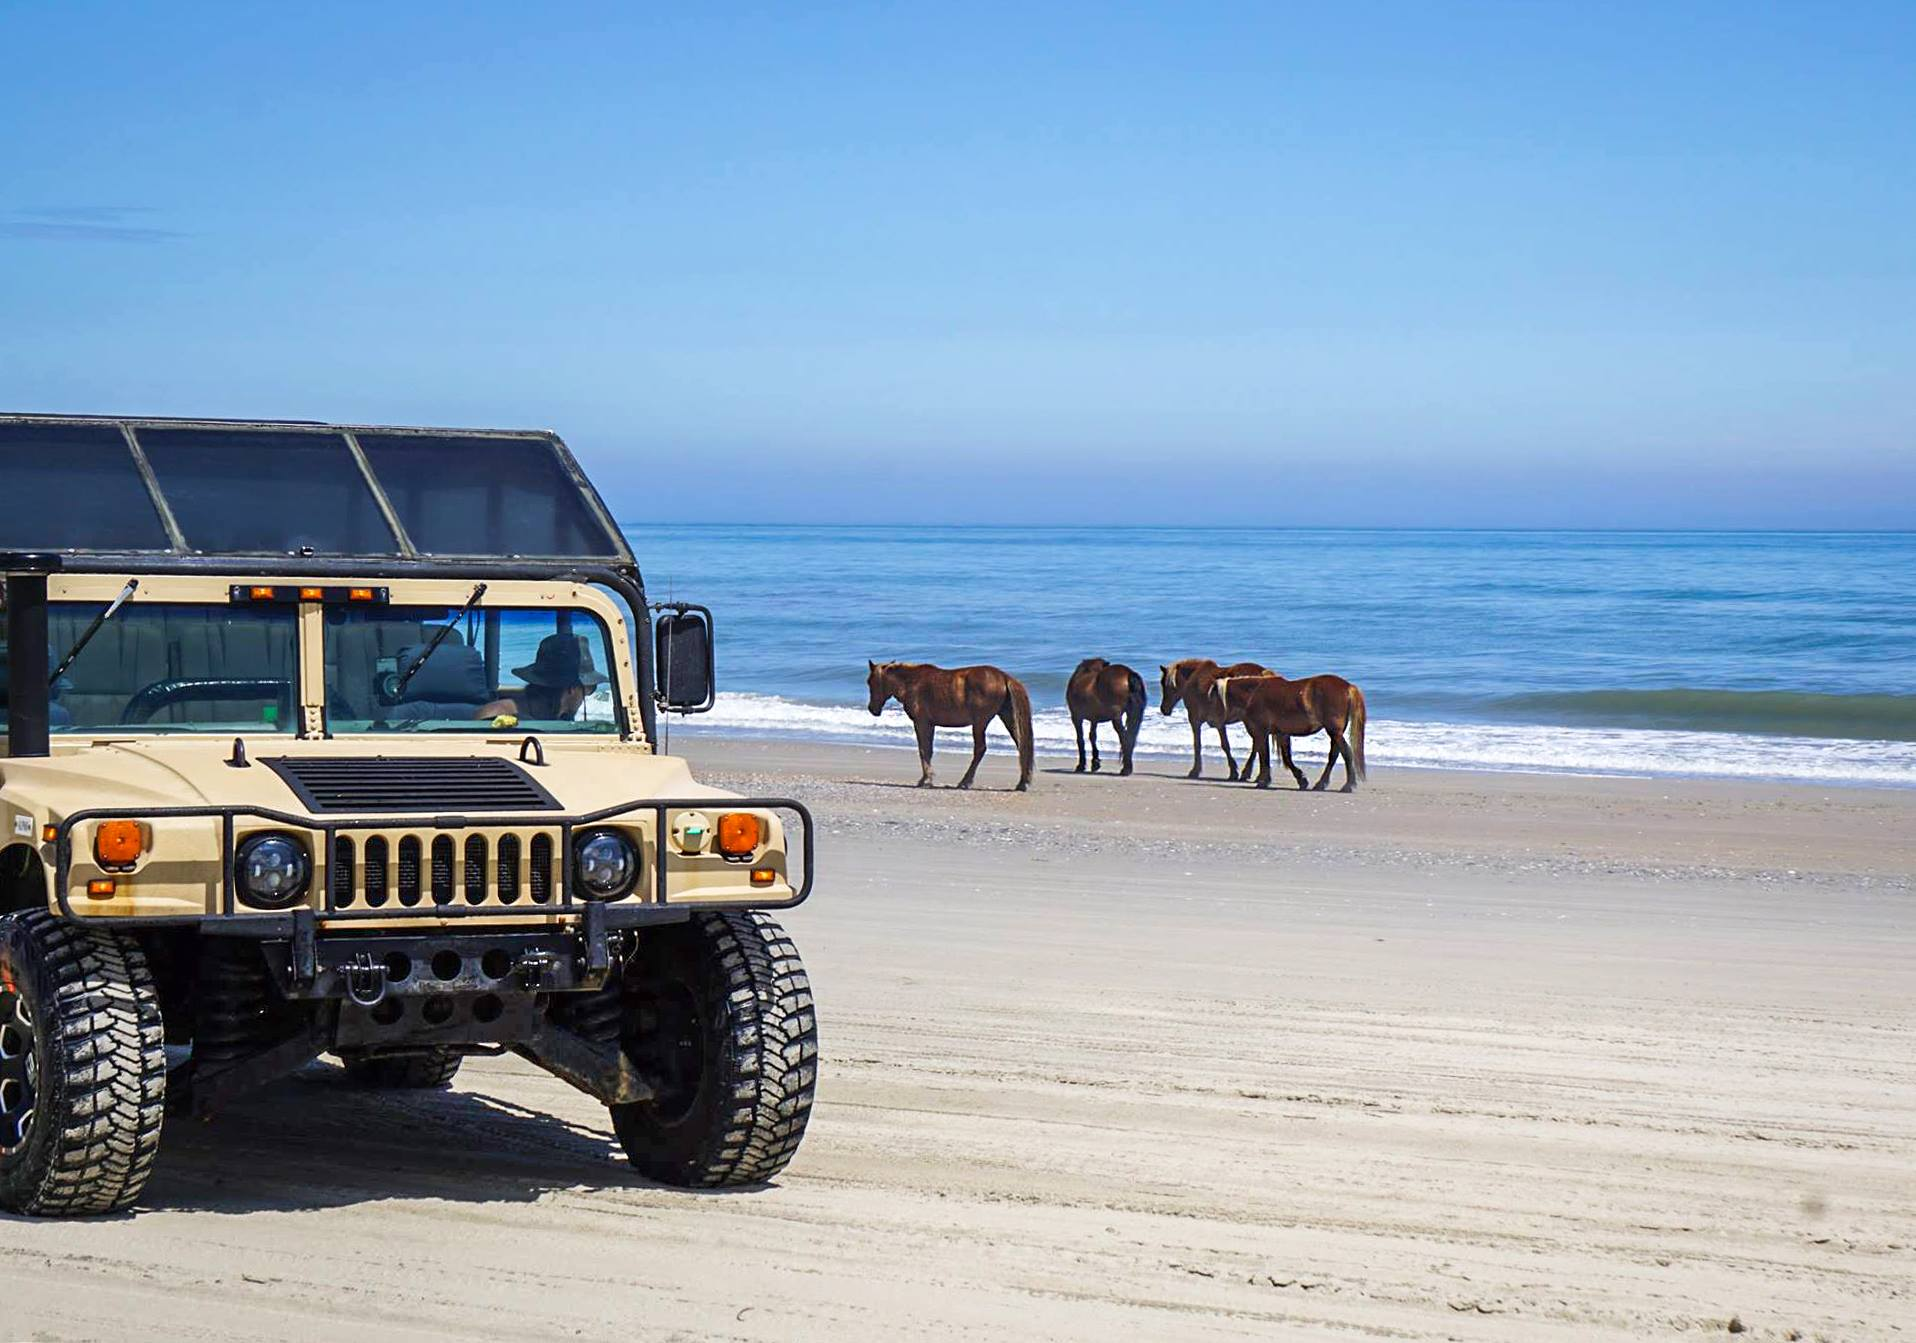
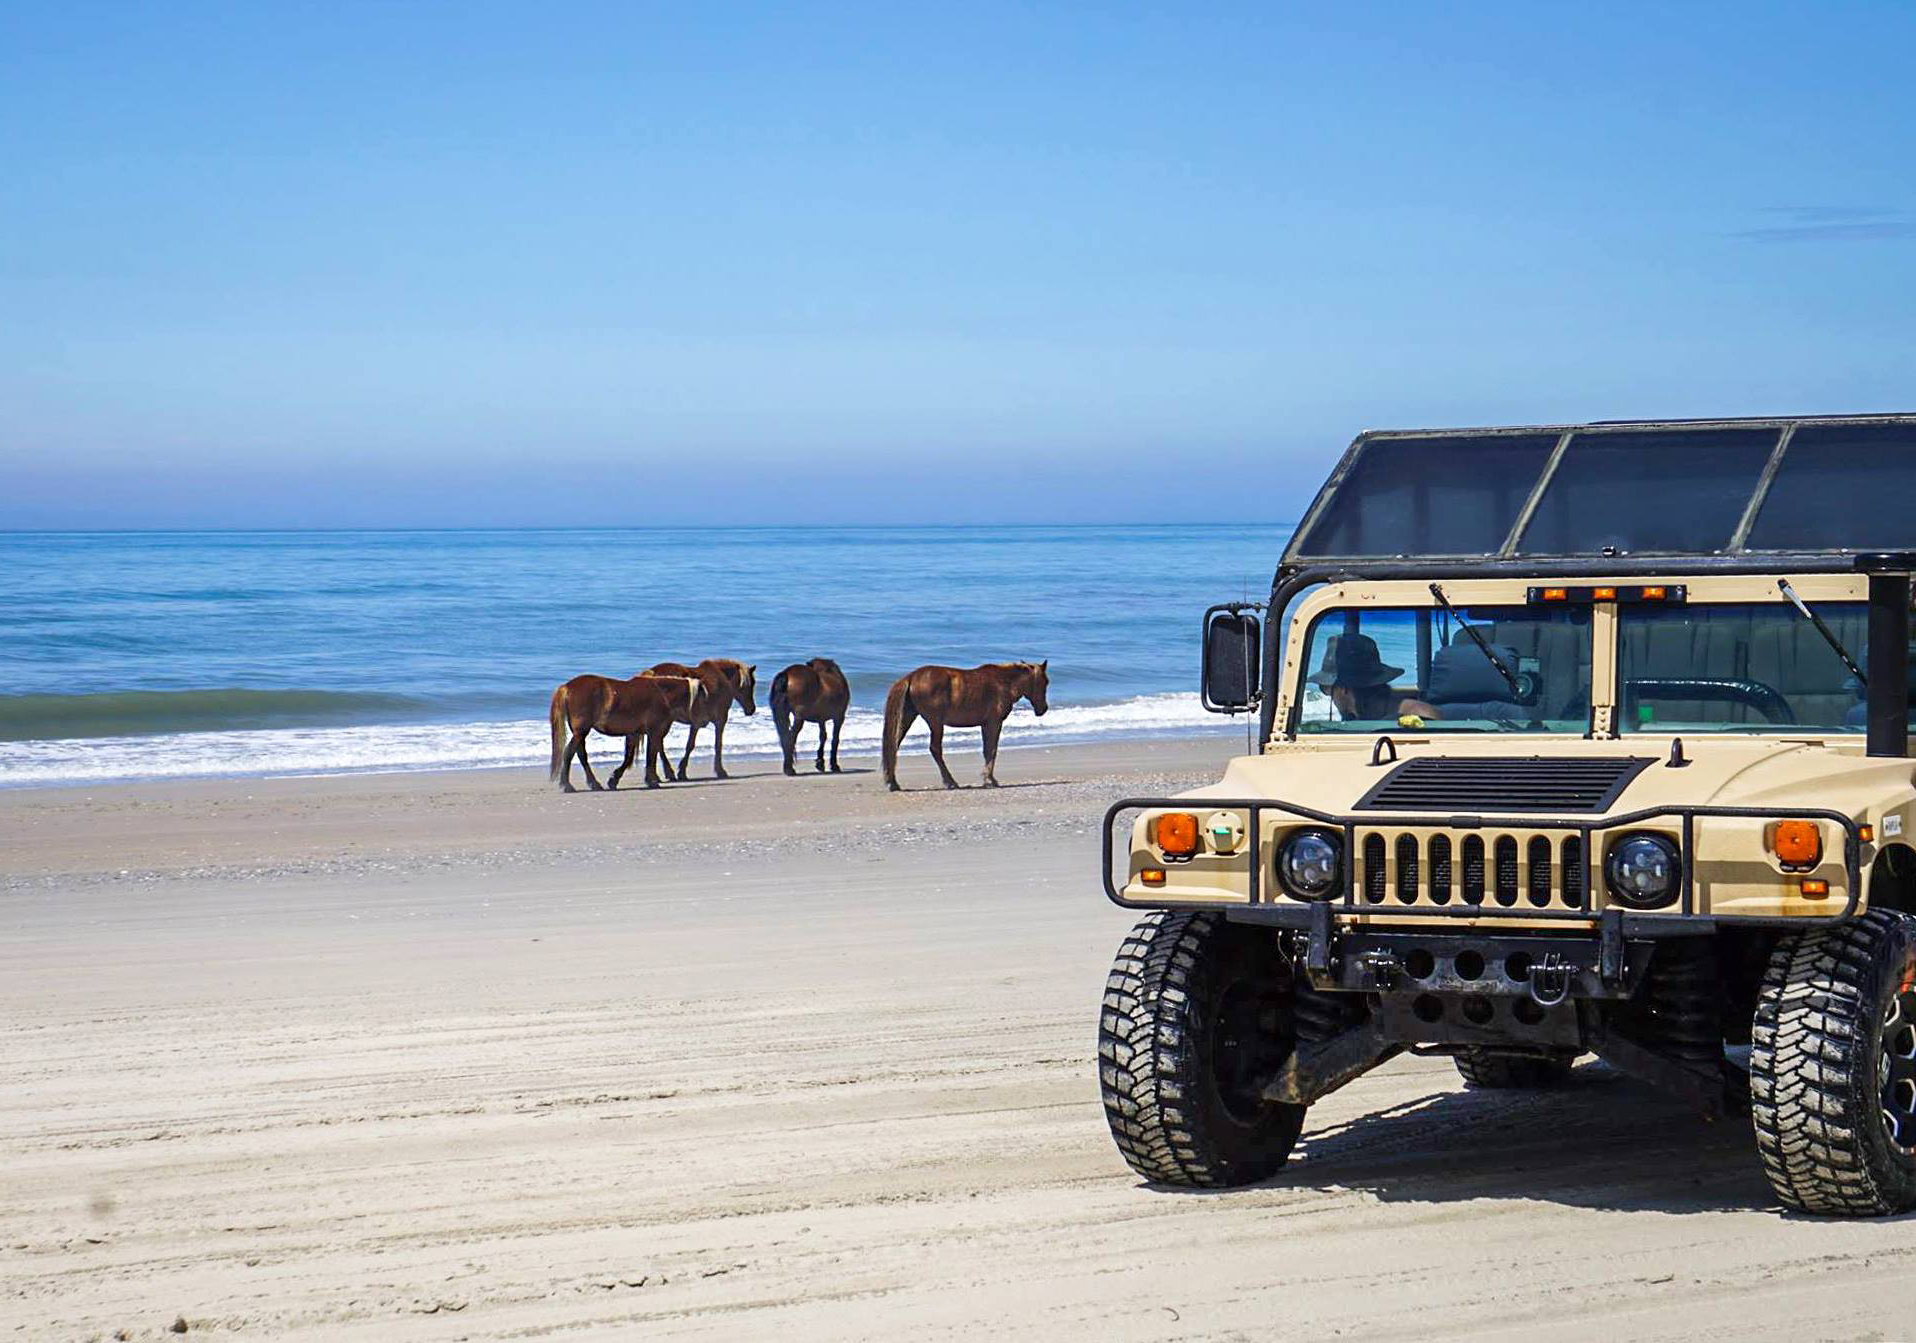
Final push?

diff --git a/project2/tidewater.html b/project2/tidewater.html
@@ -43,6 +43,7 @@
         
         <div class="body-content">
             <p>“Hold on to your hat,” the tour driver said with a laugh.<br><br>He wasn’t kidding. Hats take flight during the excursion and are part of the experience. Even with good-natured warning, all 13 of us in the oversized Hummer were giddy with anticipation. Sitting in the back row proved to be a bit of a roller-coaster “high,” but the ride was worth every jubilant minute.<br><br>We rolled down Highway 12 to see the wild, Colonial Spanish Mustangs of Corolla (pronounced Kah-rawl-ah), on the way to the sandy beaches of North Carolina’s Outer Banks. It is nature at its best with a history lesson thrown in—the horses date back to the 1500s, when Spanish explorers introduced them to the region.<br><br>In season, the native, wild horses are a major draw for tourists. They are also a beloved part of everyday life for locals, who are accustomed to seeing them on the northern beaches of Corolla and smaller community beaches of Swan and Carova (Carolina and Virginia).<br><br>The tiny Outer Banks town of Corolla grows from 1,000 residents to nearly 60,000 people in the heaviest tourism months, which occur May through October. Aside from the beaches, the horses are the main attraction. The Corolla herd is one of two wild Colonial Spanish Mustang herds left in the world; mustangs in the other herd are called Shackleford ponies and live in Shackleford Banks, which is also located in the Outer Banks.<br><br>The best way to see the horses is with <a href="https://wildhorsetour.com/" target="_blank">Wild Horse Adventure Tours</a> (WHAT). The two-hour tour is a once-in-a-lifetime experience connecting people with horses and landscape, albeit from a safe distance. A strict local ordinance protects the horses and prohibits tourists from getting closer than 50 feet. During peak season, nearly 50,000 visitors take the WHAT tour; 25 tours are given each day.<br><br>Highly trained WHAT tour guides are schooled in history and knowledgeable about the terrain, environment and horses. WHAT training is intense, and guides must pass a comprehensive test before getting behind the wheel of custom-made Hummers with open-air “windows.” WHAT refurbished eight H1 Hummers for the tours. Using Hummers was the idea of Richard Brown, a WHAT owner and self-taught mechanic; he knew only 4×4 vehicles can maneuver sand and thought Hummers would be perfect for the beach tours.</p>
+<!--
             <div class="polaroid">
                 <div class="polaroid-image">
                     <img src="img/hummer.jpg" alt="tour hummer with driver looking at wild horses near the surf">
@@ -51,8 +52,15 @@
                     <p>One of the Hummers retrofitted to be a tour vehicle</p>
                 </div>
             </div>  
+-->
+            
+            <figure>
+                <img src="img/hummer.jpg" alt="tour hummer with driver looking at wild horses near the surf">
+                <figcaption>A tour hummer</figcaption>
+            </figure>
             <p>It did not take long before we spotted harems of mustangs on the beach. Unfazed by vehicles that are a part of everyday life, the majestic horses gathered at the water’s edge. It was a perfect moment, and the scene resembled a painting with a background the color of a Carolina sky.<br><br>The Corolla herd is made up of approximately 100 horses that live in Corova—the oldest community in the North Corolla beach area—and Swan and North Swan beaches. Herd numbers fluctuate slightly, and six foals were born in 2019.<br><br>Our entertaining guide drove us into hidden alcoves with “neighborhoods” where we could observe wild horses in nature. Off the main beach, houses mix with terrain; pine trees and wood-like foliage resemble Old Florida. At times, horses took breaks from the beach to relax and eat in the shade. Mustangs are smaller in stature than most horses; the guide explained they are typically 13-14 hands high. He told us that nearby homeowners also had to follow the same restrictions and stay 50 feet away from the horses.<br><br>The respect that WHAT has for the horses is equally matched by another organization’s respect: <a href="https://www.corollawildhorses.com/" target="_blank">The Corolla Wild Horse Fund</a> (CWHF). The nonprofit’s mission is to protect the horses, preserve their environment and educate the public. By way of aerial view, helicopters keep close tabs on herd numbers throughout the year. The count is critical; dwindling numbers have put the horses on an endangered list. In the 1920s, the horses numbered around 6,000, but time and mankind have taken a toll.<br><br>A herd manager and staff monitor the health and behavior of horses on a daily basis. They also study herd interactions. Horses are free to live naturally off the land for food and water. Contraception is used on mares more than 10 years old to protect horse and herd health and lessen birth defects.<br><br>A mustang’s wild diets consists of sea oats, grasses, acorns, persimmons, an invasive plant (phragmite) and milfoil, a sub-aquatic plant that grows in manmade canals. They do not receive supplemental feeding but are closely monitored throughout winter months. Water sources include the Currituck Sound, a freshwater estuarine system.</p>
 
+<!--
             <div class="polaroid">
                 <div class="polaroid-image">
                     <img src="img/horses-home.jpg" alt="horses grazing on a sand dune on the outer banks">
@@ -61,6 +69,12 @@
                     <p>Wild horses grazing on a sand dune at the Outer Banks.</p>
                 </div>
             </div>  
+-->
+            
+            <figure>
+                <img src="img/horses-home.jpg" alt="horses grazing on a sand dune on the outer banks">
+                <figcaption>A Common Sight at Corolla</figcaption>
+            </figure>
 
             <p>CWHF Director Jo Langone said the distance requirement keeps horses and people safe.<br><br>“An exception is made when a horse is too ill to recover from an injury or sickness without medical intervention, or if a horse becomes too relaxed around people,” Langone explained.<br><br>In these instances, CWHF permanently relocates compromised horses to its 30-acre rescue facility for rehabilitation. The facility treats horses with critical illnesses, life-threatening injuries or habituation issues. The relocation is permanent because reintroducing a rehabilitated horse to the wild herd could result in the transfer of domestic diseases. It would also be challenging for these horses to adjust back to life in the wild.<br><br>Langone acknowledges that wild horses of Corolla are self-sufficient and hardy, as they have been for centuries. However, in September 2019, Hurricane Dorian struck near Cedar Island and 28 horses died, diminishing the herd of 49 by half.<br><br>“Horses have natural instincts to protect themselves, but in the case of Dorian, it happened too fast,” said Langone. “The water surged to eight feet within an hour and the horses had no time to escape.”<br><br>The tragedy hit the equine community hard, but fortunately the animals are resilient. New foals are born, and herds continue to thrive thanks to WHAT and CWHF. Both organizations are dedicated to educating the public and preserving an important 500-year legacy. A beach with wild horses—what could possibly be better?<br><br>– Originally published in <a href="https://thevirginiasportsman.com/featured/the-wild-horses-of-corolla-in-the-outer-banks" target="_blank">The Virginia Sportsman</a>. Reused for educational purposes.</p>
             <div class="multiple-tiles">

diff --git a/project2/piedmont.html b/project2/piedmont.html
@@ -45,6 +45,7 @@
             <p>Reed Gold Mine is the site of the first documented gold find in the United States. From this discovery, gold mining spread gradually to nearby counties and eventually into other southern states. During its peak years gold mining was second only to farming in the number of North Carolinians it employed. The estimated value of gold recovered reached over one million dollars a year. North Carolina led the nation in gold production until 1848, when it was eclipsed by the great rush to California.</p>
             <h2>A Simple Man</h2>
             <p>John Reed (Johannes Reith) was a Hessian soldier who left the British army near the conclusion of the Revolutionary War and came to settle near fellow Germans living in the lower Piedmont of North Carolina. Most of the people dwelt on modest family-run farms in rural areas, where they raised small grain crops such as corn and wheat.<br><br>The life of farmer John Reed would have been long forgotten had it not been for a chance event one Sunday in 1799. On that day, Reed's son Conrad found a large yellow rock in Little Meadow Creek on the Reed farm in Cabarrus County. This rock reportedly weighed 17 pounds and for three years was used as a doorstop at the Reed house.</p>
+<!--
             <div class="polaroid">
                 <div class="polaroid-image">
                     <img src="img/gold-nugget.png" alt="the massive gold nugget found by Reed">
@@ -53,6 +54,12 @@
                     <p>The massive gold nugget found by Reed</p>
                 </div>
             </div>
+-->
+            
+            <figure>
+                <img src="img/gold-nugget.png" alt="the massive gold nugget found by Reed pictured on a wooden porch">
+                <figcaption>Reed's Gold Nugget</figcaption>
+            </figure>
             <p>In 1802 a Fayetteville jeweler identified the gold nugget. He purchased it for the asked price of $3.50—one-tenth of one percent of its true value.<br><br>The following year John Reed began the Reed mining operation by forming a partnership with three local men. The partners supplied equipment and workers to dig for gold in the creek bed, while Reed provided the land. The returns were to be divided equally. The men mined mainly in the off-season from farming, giving first priority to raising their crops. Before the end of the first year, a slave named Peter had unearthed a 28-pound nugget. Using only pans and rockers to wash the creek gravel, the part-time miners recovered an estimated yield of one hundred thousand dollars by 1824.</p>
             <h2>The Fever Spreads</h2>
             <p>Hearing of Reed's good fortune, other Piedmont farmers began exploring their creeks and finding gold. Men and women, both young and old, worked in the gold fields. Foreigners joined them, including the skilled Cornishmen from England.<br><br>"Placer," or creek, gold mining led to underground mining when it was learned in 1825 that the metal also existed in veins of white quartz rock. The search for underground or "lode" gold required much more money, labor, and machinery. Underground work at Reed was not begun until 1831. Four years later a family squabble resulted in a court injunction that closed the mine for a decade.<br><br>John Reed was a wealthy man when he died in 1845. Soon the Reed mine was sold at public auction.<br><br>The mine was eventually purchased in 1895 by Oliver S. Kelly and his son O. Warren Kelly. They started exploring the older workings on Lower Hill, then worked towards Upper Hill. A 10-Stamp California style mill was purchased by the Mecklenburg Iron Works of Charlotte by 1898 and placed along Little Meadow Creek to crush and process the quartz. The Upper Hill workings were deepened first to the 100 foot level and finally reaching 150 feet looking for quartz veins. Unfortunately the gold they hoped to find never materialized and the Kelly family ended all underground mining in 1912, abandoning their efforts at Reed.<br><br>One highlight during the Kelly era at Reed was the discovery of a 22-pound gold nugget by four men - Jacob L. Shinn, Jesse Cox, his son A.M. Cox and Dr. J.R. Jerome. They were digging near an old road, an area not completely searched in the past during April 1896. On the 9th of April, the men found a rather large heavy rock, but it didn't have the correct look, so was tossed aside. Finally Jacob Shinn took it to the creek, washed it off and realized it did in fact contain a large amount of gold. All the partners grew extremely excited, and took a wagon ride back to Georgeville to put the gold in Shinn's store. This rock was then determined to be a 23 pound gold nugget, the last large nugget of any size to be reported from the Reed property. Plaster casts were made of the nugget for the N.C. state museum and the Smithsonian Institution, who had also taken an interest in the nugget. Once the excitement ended, the nugget was sold for $4,800, the value of the gold at the time ($20.67 per troy ounce). While Reed interprets this as the Shinn nugget, some of the Cox family descendants claim A. M. actually discovered it in the ground. There is evidence to substantiate this claim, since the photograph showing the original nugget lists A.M. not Jacob Shinn as the person who discovered the nugget. Either way, both men, along with their partners, aided in this great discovery.</p>

diff --git a/project2/css/styles.css b/project2/css/styles.css
@@ -184,6 +184,7 @@ div.polaroid > iframe {
 }
 
 /* Fancy CSS */
+/* Courtesy of Temani Afif from CodePen: https://codepen.io/t_afif/pen/PoBQRmj */
 
 figure {
   display: grid;
@@ -290,6 +291,11 @@ div.image-text {
     align-items: center;
 }
 
+.bottom-navigation > h3, a {
+    text-decoration: none;
+
+}
+
 /* Mountains Only Styles */
 
 #mountains-title {
@@ -358,11 +364,6 @@ div.image-text {
     
     .polaroid-image {
         height: 300px;
-    }
-    
-    .bottom-navigation > h3, a {
-        text-decoration: none;
-        
     }
     
     .bottom-navigation > h3, a:hover {

diff --git a/project2/coastal-plain.html b/project2/coastal-plain.html
@@ -55,7 +55,7 @@
 -->
             
             <figure>
-                <img src="img/oldest-tree.jpg" alt="image of the oldest tree in the world in the snow">
+                <img src="img/methuselah1.jpg" alt="image of the oldest tree in the world in the snow">
                 <figcaption>The oldest tree in the world</figcaption>
             </figure>
             
